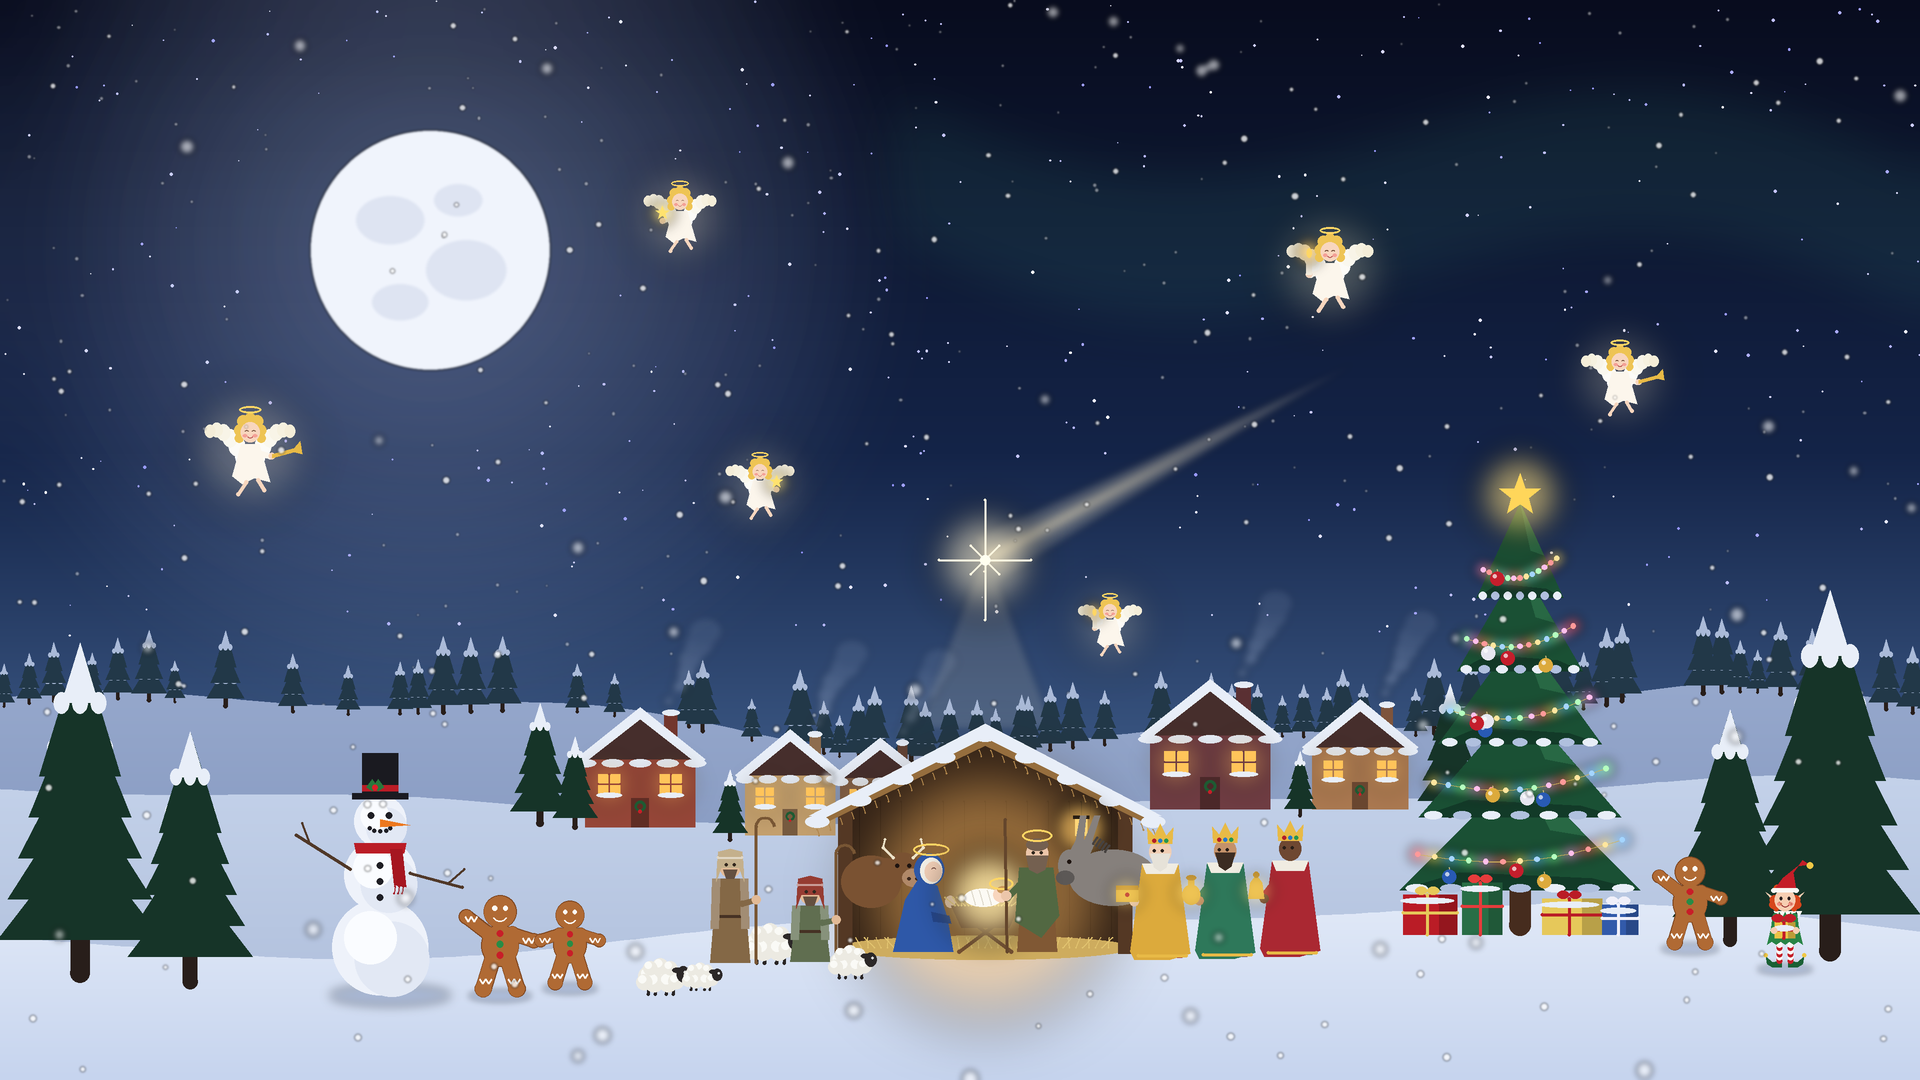
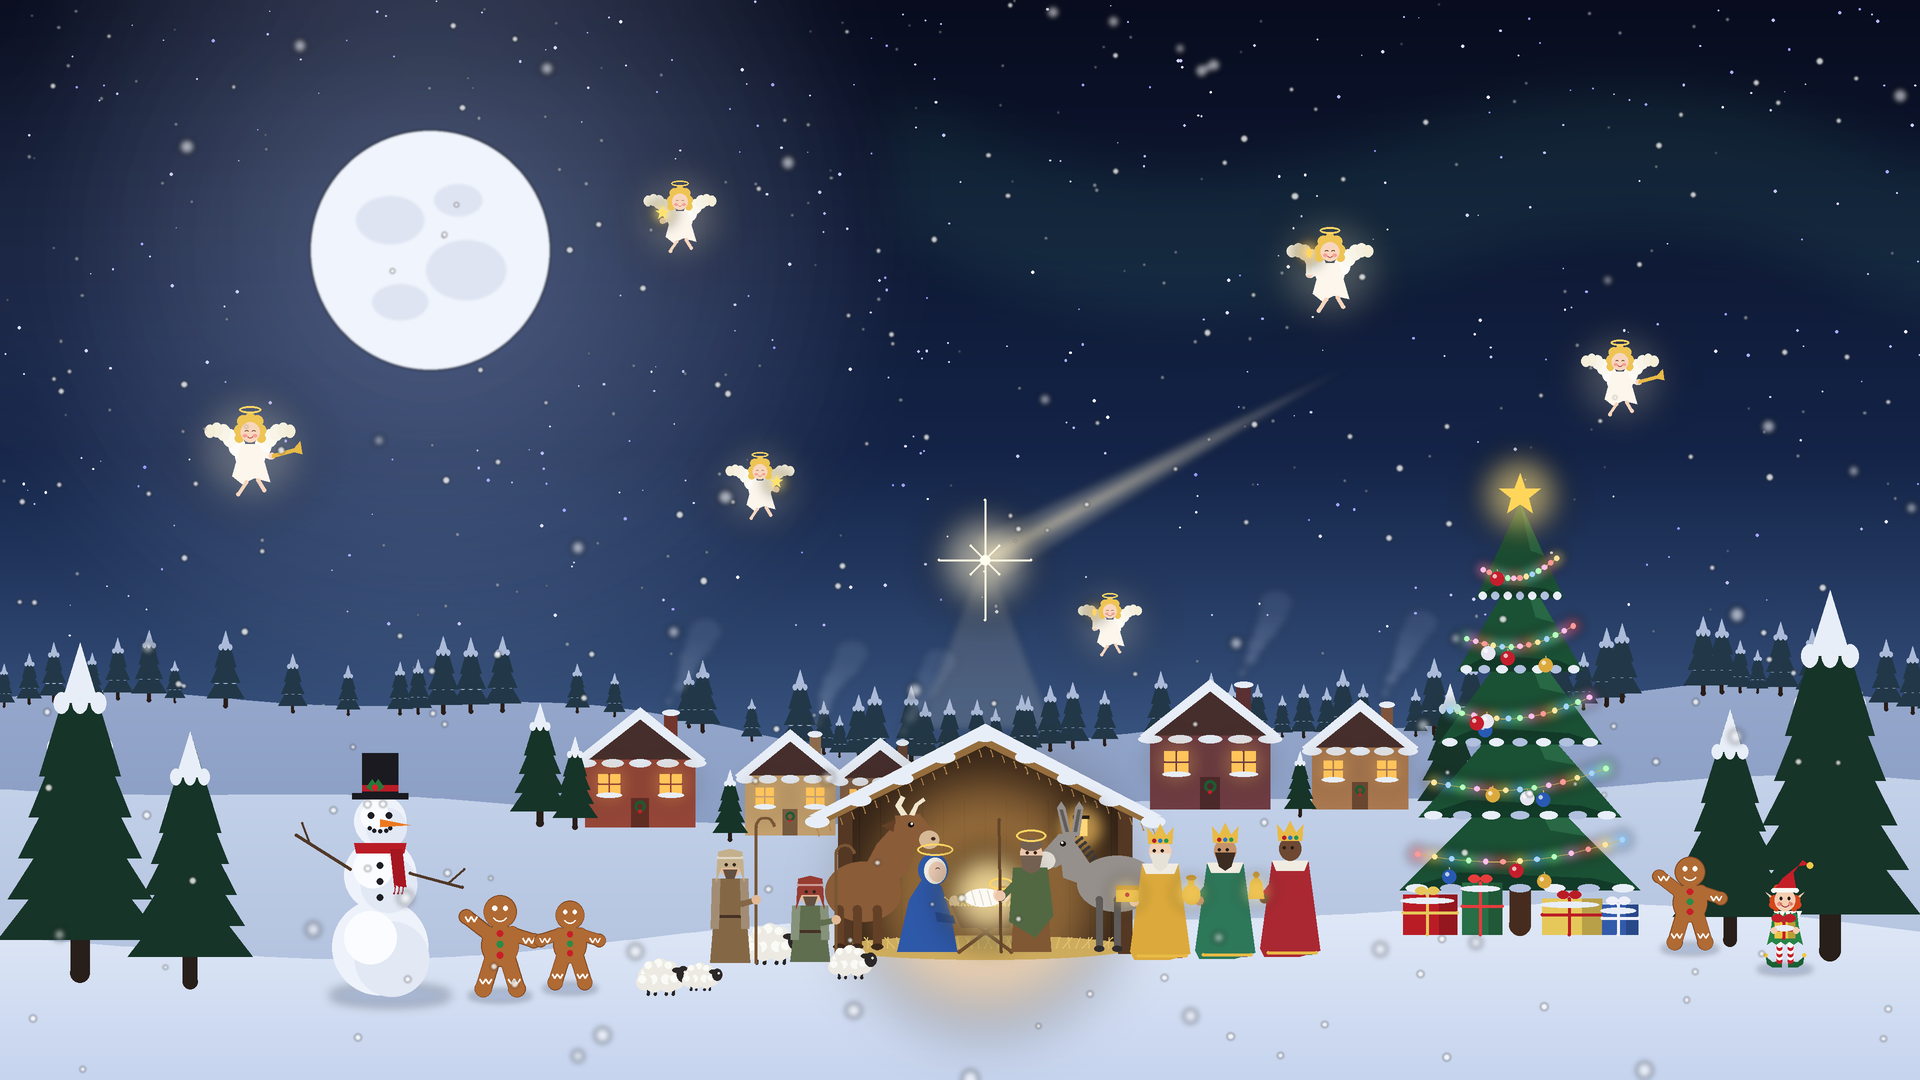
Christmas backdrop: clearer ox and donkey
Both now stand in profile with their heads above Mary and Joseph, looking
at the manger: the ox with horns and a light muzzle, the donkey with long
ears and a mane.

Claude-Session: https://claude.ai/code/session_01G7yqpZzTFWDYYRx7RerXcw

Changed region(s): [[0.4062, 0.7333, 0.5938, 0.8861]]

diff --git a/settings/art/christmas-backdrop.py b/settings/art/christmas-backdrop.py
@@ -500,32 +500,47 @@ def stable(img, x, y):
 
 
 def ox(d, x, y):
-    body, light = (122, 82, 50), (176, 136, 104)
-    ellipse(d, x - 2, y + 10, 30, 26, body)
-    ellipse(d, x + 30, y - 4, 17, 15, body)
-    ellipse(d, x + 40, y + 6, 11, 9, light)
-    for nx in (36, 44):
-        ellipse(d, x + nx, y + 7, 1.8, 1.4, (60, 40, 30))
-    for sx in (-1, 1):
-        line(d, (x + 30 + sx * 10, y - 14), (x + 30 + sx * 20, y - 24), 3, (236, 226, 200))
-        line(d, (x + 30 + sx * 20, y - 24), (x + 30 + sx * 18, y - 32), 2.4, (236, 226, 200))
-        ellipse(d, x + 30 + sx * 17, y - 10, 6, 3.5, body)
-    for ex in (24, 36):
-        ellipse(d, x + ex, y - 6, 2, 2, (30, 20, 16))
+    """The ox in profile, facing right: (x, y) is the middle of its head."""
+    body, dark, light, horn = (138, 92, 56), (100, 64, 38), (214, 184, 150), (240, 230, 206)
+    ellipse(d, x - 44, y + 62, 38, 30, body)                                        # body, behind the head
+    for lx in (-68, -50, -30):
+        line(d, (x + lx, y + 80), (x + lx, y + 116), 9, dark)
+        ellipse(d, x + lx, y + 117, 6, 3, (60, 40, 26))
+    d.polygon(P([(x - 30, y + 14), (x - 8, y - 10), (x + 6, y - 8), (x + 2, y + 40), (x - 20, y + 60), (x - 44, y + 40)]), fill=body)  # neck
+    d.polygon(P([(x - 12, y - 14), (x + 12, y - 16), (x + 26, y + 2), (x + 26, y + 14), (x + 10, y + 18),
+                 (x - 10, y + 10)]), fill=body)                                     # head
+    ellipse(d, x + 22, y + 10, 10, 9, light)                                        # muzzle
+    ellipse(d, x + 26, y + 9, 2, 1.6, (70, 46, 34))
+    ellipse(d, x + 4, y - 5, 2.6, 2.6, (30, 20, 16))                               # eye
+    ellipse(d, x + 4.8, y - 5.8, 0.9, 0.9, (255, 255, 255))
+    d.polygon(P([(x - 12, y - 10), (x - 26, y - 4), (x - 14, y + 2)]), fill=dark)  # ear
+    d.polygon(P([(x - 6, y - 14), (x - 12, y - 24), (x - 6, y - 34), (x - 2, y - 32), (x - 6, y - 24), (x, y - 15)]),
+              fill=horn)                                                            # horn
+    d.polygon(P([(x + 2, y - 15), (x + 8, y - 26), (x + 16, y - 32), (x + 18, y - 29), (x + 11, y - 24), (x + 7, y - 14)]),
+              fill=horn)
 
 
 def donkey(d, x, y):
-    body, muzzle = (134, 128, 124), (92, 88, 86)
-    ellipse(d, x + 14, y + 6, 44, 28, body)
-    d.polygon(P([(x - 14, y - 6), (x - 4, y - 30), (x - 22, y - 34), (x - 38, y - 4)]), fill=body)
-    ellipse(d, x - 30, y - 6, 11, 16, body)
-    ellipse(d, x - 34, y + 6, 9, 7, muzzle)
-    for ex, tilt in ((-20, 4), (-12, 10)):
-        d.polygon(P([(x + ex - 4, y - 28), (x + ex + tilt - 3, y - 56), (x + ex + tilt + 3, y - 56), (x + ex + 4, y - 28)]),
-                  fill=body)
-    for k in range(5):
-        line(d, (x - 6 + k * 3, y - 28 + k * 2), (x - 2 + k * 3, y - 34 + k * 2), 2, (70, 66, 64))
-    ellipse(d, x - 30, y - 10, 2, 2, (30, 20, 16))
+    """The donkey in profile, facing left: (x, y) is the middle of its head."""
+    body, dark, muzzle = (150, 144, 140), (96, 92, 90), (226, 222, 214)
+    ellipse(d, x + 52, y + 36, 40, 28, body)
+    for lx in (34, 52, 76):
+        line(d, (x + lx, y + 52), (x + lx, y + 100), 7, dark)
+        ellipse(d, x + lx, y + 101, 5, 3, (50, 46, 46))
+    d.polygon(P([(x + 26, y + 18), (x + 8, y - 8), (x - 6, y - 6), (x - 2, y + 30), (x + 26, y + 40)]), fill=body)
+    for k in range(6):
+        line(d, (x + 8 + k * 3.5, y - 10 + k * 4.5), (x + 13 + k * 3.5, y - 14 + k * 4.5), 3, (60, 56, 56))   # mane
+    d.polygon(P([(x + 10, y - 12), (x - 6, y - 14), (x - 24, y + 6), (x - 26, y + 18), (x - 10, y + 20), (x + 8, y + 10)]),
+              fill=body)
+    ellipse(d, x - 20, y + 13, 10, 9, muzzle)
+    ellipse(d, x - 26, y + 11, 1.8, 1.4, (60, 56, 56))
+    ellipse(d, x - 2, y - 4, 2.6, 2.6, (30, 20, 16))
+    ellipse(d, x - 2.8, y - 4.8, 0.9, 0.9, (255, 255, 255))
+    for ex, tilt in ((2, -6), (10, 4)):                                             # the long ears
+        d.polygon(P([(x + ex - 4, y - 12), (x + ex + tilt - 4, y - 40), (x + ex + tilt, y - 46), (x + ex + tilt + 4, y - 40),
+                     (x + ex + 4, y - 12)]), fill=body)
+        d.polygon(P([(x + ex - 1.5, y - 16), (x + ex + tilt - 1.5, y - 38), (x + ex + tilt + 1.5, y - 38), (x + ex + 1.5, y - 16)]),
+                  fill=dark)
 
 
 def manger(img, x, y):
@@ -711,12 +726,12 @@ def main():
     sx = 985
     stable(img, sx, gy(sx))
     d = ImageDraw.Draw(img)
-    ox(d, sx - 112, gy(sx) - 80)
-    donkey(d, sx + 114, gy(sx) - 80)
-    mary(d, sx - 58, gy(sx))
+    ox(d, sx - 78, gy(sx) - 122)
+    donkey(d, sx + 80, gy(sx) - 104)
+    mary(d, sx - 54, gy(sx))
     manger(img, sx, gy(sx))
     d = ImageDraw.Draw(img)
-    joseph(d, sx + 52, gy(sx))
+    joseph(d, sx + 46, gy(sx))
     sheep(d, 770, gy(770) + 4, 1.1)
     shepherd(d, 730, gy(730), (132, 104, 70), (196, 176, 140))
     shepherd(d, 810, gy(810) + 6, (96, 110, 80), (150, 60, 50), kneel=True)
